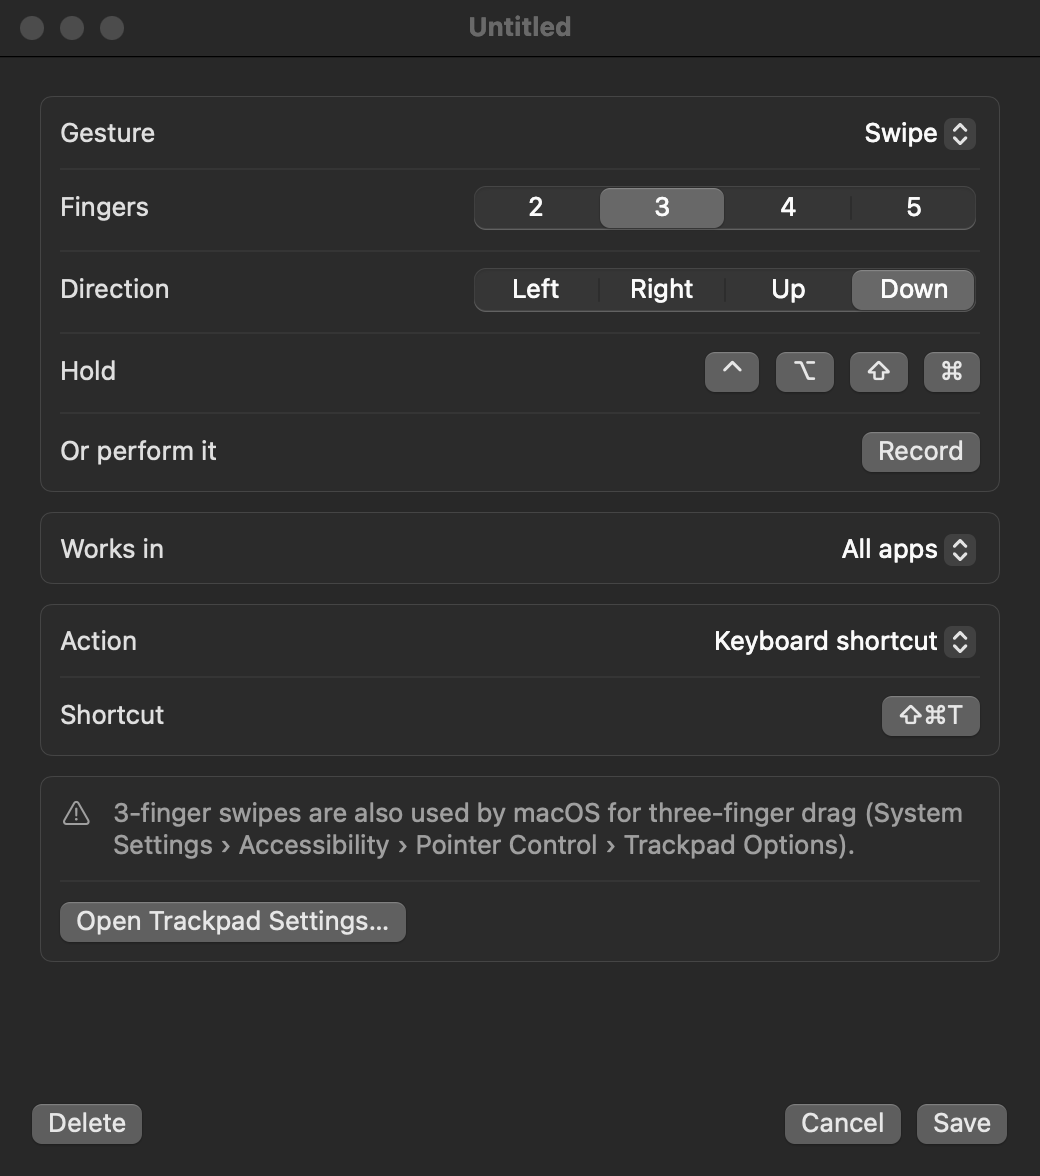
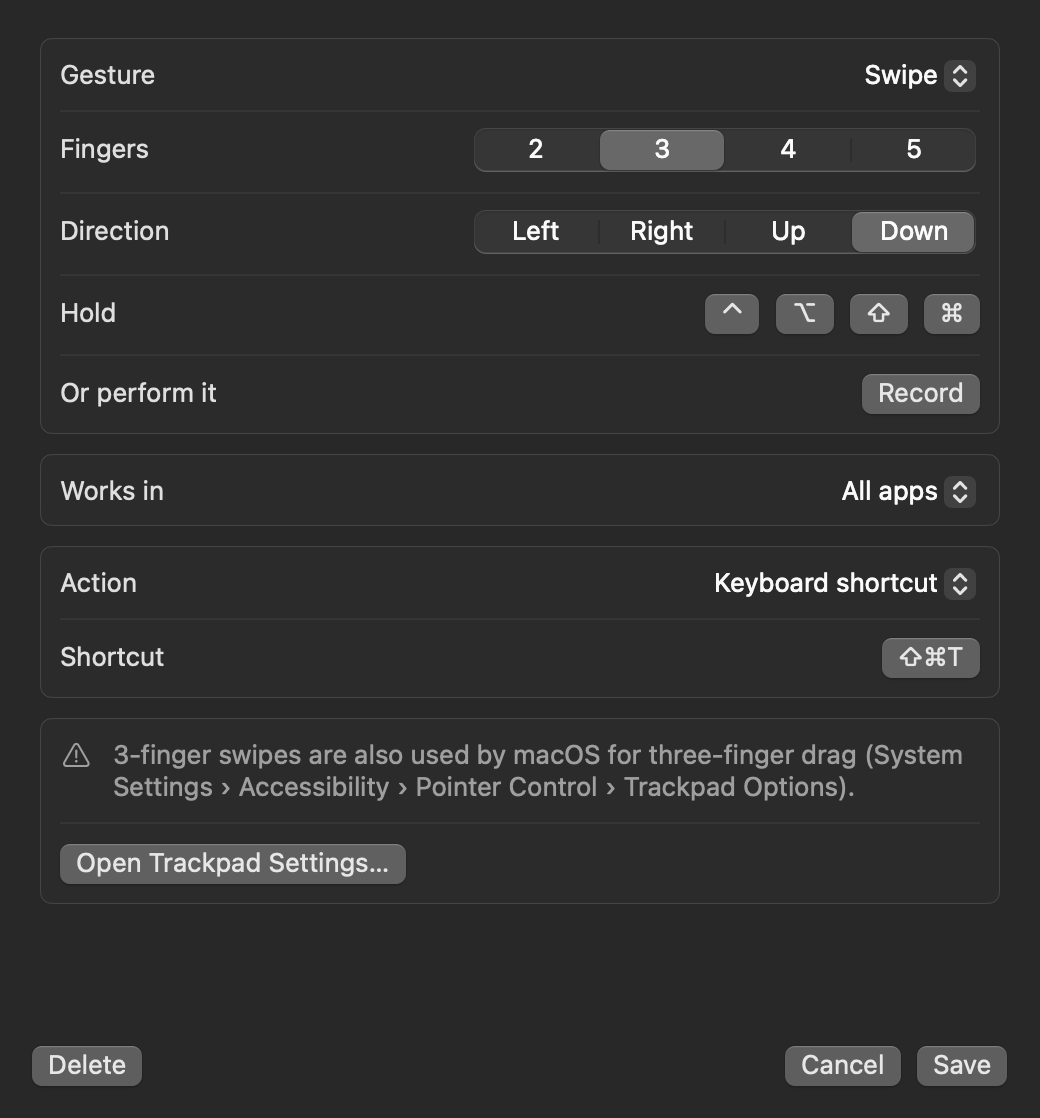
README: editor screenshots without the "Untitled" title bar
The editor is a sheet in the app and has no title bar; the snapshot tool drew it in a bare window.
Snapshot mode now crops the title bar off the editor renders.

diff --git a/Sources/OpenGestures/Snapshot.swift b/Sources/OpenGestures/Snapshot.swift
@@ -28,7 +28,7 @@ extension AppDelegate {
                 for (name, editor) in editors {
                     editor.orderFront(nil)
                     try? await Task.sleep(for: .milliseconds(500))
-                    Self.write(editor, to: "\(dir)/\(name)-\(suffix).png")
+                    Self.write(editor, to: "\(dir)/\(name)-\(suffix).png", chrome: false)
                     editor.orderOut(nil)
                 }
                 for pane in Pane.allCases {
@@ -41,11 +41,20 @@ extension AppDelegate {
         }
     }
 
-    private static func write(_ window: NSWindow, to path: String) {
+    /// `chrome: false` crops the title bar off: the editor is a sheet in the real app and has none.
+    private static func write(_ window: NSWindow, to path: String, chrome: Bool = true) {
         guard let view = window.contentView?.superview,
               let rep = view.bitmapImageRepForCachingDisplay(in: view.bounds) else { return }
         view.cacheDisplay(in: view.bounds, to: rep)
-        try? rep.representation(using: .png, properties: [:])?.write(to: URL(fileURLWithPath: path))
+        var output = rep
+        if !chrome, let image = rep.cgImage {
+            let scale = CGFloat(rep.pixelsHigh) / view.bounds.height
+            let bar = Int(((view.bounds.height - (window.contentView?.frame.height ?? 0)) * scale).rounded()) + 2  // + the divider line
+            if let cropped = image.cropping(to: CGRect(x: 0, y: bar, width: image.width, height: image.height - bar)) {
+                output = NSBitmapImageRep(cgImage: cropped)
+            }
+        }
+        try? output.representation(using: .png, properties: [:])?.write(to: URL(fileURLWithPath: path))
     }
 }
 #endif
